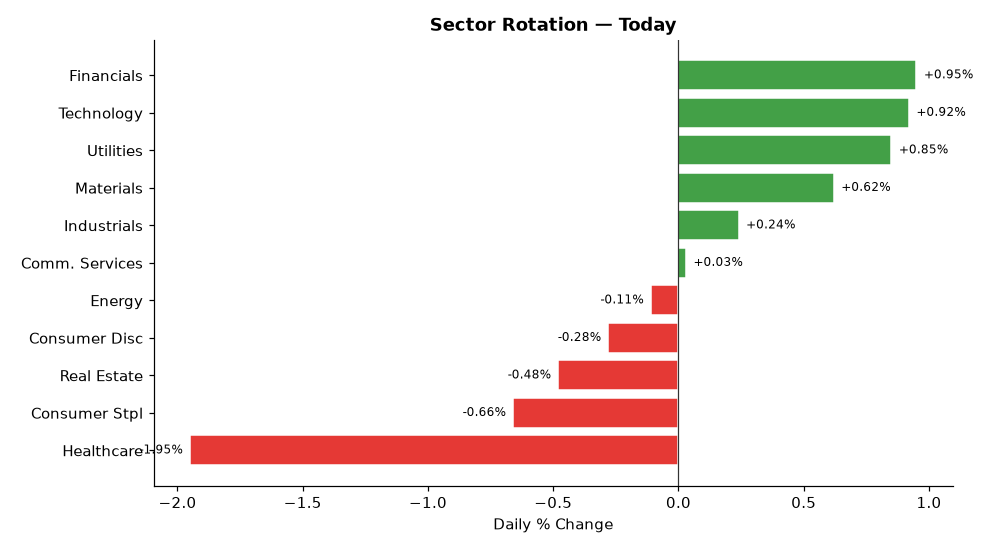
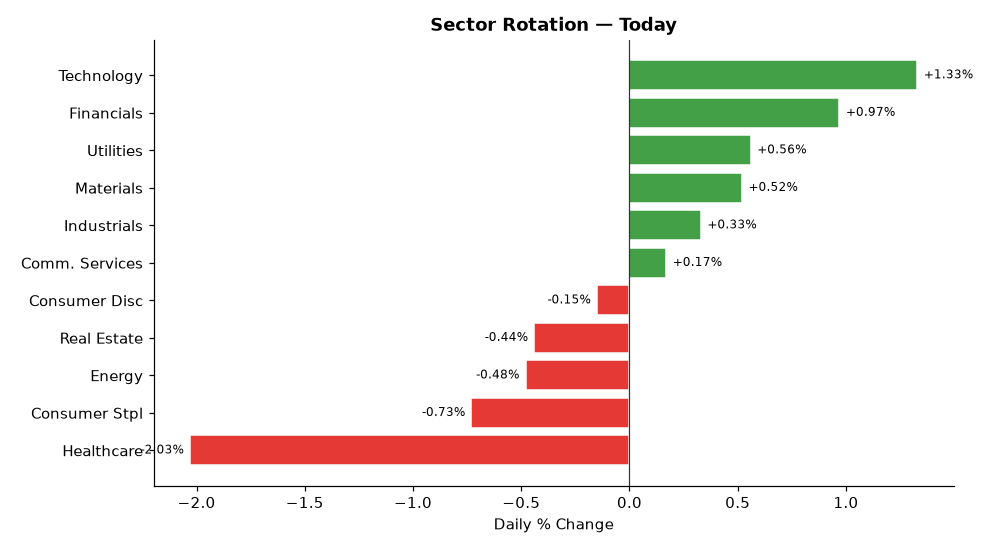
deploy: b7fadf5b06deb90e7ebb92f278722414bdd9750d

diff --git a/index.html b/index.html
@@ -4,7 +4,7 @@
   <meta charset="UTF-8">
   <meta name="viewport" content="width=device-width,initial-scale=1">
   <meta http-equiv="Cache-Control" content="no-cache,no-store,must-revalidate">
-  <title>Stock Breakout Screener — 2026-07-14 14:45</title>
+  <title>Stock Breakout Screener — 2026-07-14 15:07</title>
   <style>
     *{box-sizing:border-box;margin:0;padding:0}
     body{font-family:'Segoe UI',Arial,sans-serif;background:#f0f2f5;
@@ -34,7 +34,7 @@
 
 <div class="hdr">
   <h1>📈 Stock Breakout Screener</h1>
-  <p>Updated: 2026-07-14 14:45 UTC &nbsp;·&nbsp; Phase: Regular Market Hours &nbsp;·&nbsp;
+  <p>Updated: 2026-07-14 15:07 UTC &nbsp;·&nbsp; Phase: Regular Market Hours &nbsp;·&nbsp;
      129 stocks screened &nbsp;·&nbsp; Top 5 by conviction score</p>
 </div>
 
@@ -60,16 +60,16 @@
           <div style="display:flex;align-items:center;gap:10px;
                       flex-wrap:wrap;margin-bottom:10px">
             <span style="font-size:22px">🟢</span>
-            <span style="font-size:19px;font-weight:700">1. JPM</span>
-            <span style="font-size:12px;color:#666">Financials</span>
+            <span style="font-size:19px;font-weight:700">1. AAPL</span>
+            <span style="font-size:12px;color:#666">Technology</span>
             <span style="margin-left:auto;background:#1a237e;color:#fff;
                          padding:3px 12px;border-radius:12px;
                          font-size:13px;font-weight:600">
-              12/17
+              13/17
             </span>
           </div>
           <ul style="margin:0;padding-left:18px;font-size:13px;
-                     color:#333;line-height:1.8"><li style="margin:5px 0"><span style="background:#ffebee;color:#b71c1c;padding:2px 7px;border-radius:4px;font-size:11px;">❌</span> Volume: <b>0.5× average</b> — Above-average activity</li><li style="margin:5px 0"><span style="background:#e8f5e9;color:#2e7d32;padding:2px 7px;border-radius:4px;font-size:11px;">✅</span> Candle: close <b>$343.07</b> vs open <b>$327.00</b> (+4.9%) — regular market close</li><li style="margin:5px 0"><span style="background:#e8f5e9;color:#2e7d32;padding:2px 7px;border-radius:4px;font-size:11px;">✅</span> 200-Day MA: price <b>$343.07</b> vs MA <b>$305.91</b> — <b>✅ Above</b> long-term trend</li><li style="margin:5px 0"><span style="background:#e8f5e9;color:#2e7d32;padding:2px 7px;border-radius:4px;font-size:11px;">✅</span> Inst. ownership: <b>75.6%</b> · MFI: <b>58.9</b> · Market cap: <b>$919.6B</b></li></ul>
+                     color:#333;line-height:1.8"><li style="margin:5px 0"><span style="background:#ffebee;color:#b71c1c;padding:2px 7px;border-radius:4px;font-size:11px;">❌</span> Volume: <b>0.2× average</b> — Above-average activity</li><li style="margin:5px 0"><span style="background:#ffebee;color:#b71c1c;padding:2px 7px;border-radius:4px;font-size:11px;">❌</span> Candle: close <b>$315.60</b> vs open <b>$313.64</b> (+0.6%) — regular market close</li><li style="margin:5px 0"><span style="background:#e8f5e9;color:#2e7d32;padding:2px 7px;border-radius:4px;font-size:11px;">✅</span> 200-Day MA: price <b>$315.60</b> vs MA <b>$276.53</b> — <b>✅ Above</b> long-term trend</li><li style="margin:5px 0"><span style="background:#e8f5e9;color:#2e7d32;padding:2px 7px;border-radius:4px;font-size:11px;">✅</span> Inst. ownership: <b>65.7%</b> · MFI: <b>78.0</b> · Market cap: <b>$4635.0B</b></li><li style="margin:5px 0"><span style="background:#e8f5e9;color:#2e7d32;padding:2px 7px;border-radius:4px;font-size:11px;">✅</span> Last similar breakout: <b>Jun 26, 2026</b> → <b>+11.8%</b> over 10 trading days</li></ul>
         </div>
         <div style="background:#fff;border:1px solid #ddd;border-radius:10px;
                     padding:16px 20px;margin-bottom:12px;
@@ -77,7 +77,7 @@
           <div style="display:flex;align-items:center;gap:10px;
                       flex-wrap:wrap;margin-bottom:10px">
             <span style="font-size:22px">🟡</span>
-            <span style="font-size:19px;font-weight:700">2. AAPL</span>
+            <span style="font-size:19px;font-weight:700">2. CRM</span>
             <span style="font-size:12px;color:#666">Technology</span>
             <span style="margin-left:auto;background:#1a237e;color:#fff;
                          padding:3px 12px;border-radius:12px;
@@ -86,7 +86,7 @@
             </span>
           </div>
           <ul style="margin:0;padding-left:18px;font-size:13px;
-                     color:#333;line-height:1.8"><li style="margin:5px 0"><span style="background:#ffebee;color:#b71c1c;padding:2px 7px;border-radius:4px;font-size:11px;">❌</span> Volume: <b>0.9× average</b> — Above-average activity</li><li style="margin:5px 0"><span style="background:#ffebee;color:#b71c1c;padding:2px 7px;border-radius:4px;font-size:11px;">❌</span> Candle: close <b>$317.31</b> vs open <b>$317.02</b> (+0.1%) — regular market close</li><li style="margin:5px 0"><span style="background:#e8f5e9;color:#2e7d32;padding:2px 7px;border-radius:4px;font-size:11px;">✅</span> 200-Day MA: price <b>$317.31</b> vs MA <b>$276.53</b> — <b>✅ Above</b> long-term trend</li><li style="margin:5px 0"><span style="background:#e8f5e9;color:#2e7d32;padding:2px 7px;border-radius:4px;font-size:11px;">✅</span> Inst. ownership: <b>65.7%</b> · MFI: <b>78.1</b> · Market cap: <b>$4630.4B</b></li><li style="margin:5px 0"><span style="background:#e8f5e9;color:#2e7d32;padding:2px 7px;border-radius:4px;font-size:11px;">✅</span> Last similar breakout: <b>Jun 26, 2026</b> → <b>+11.8%</b> over 10 trading days</li></ul>
+                     color:#333;line-height:1.8"><li style="margin:5px 0"><span style="background:#ffebee;color:#b71c1c;padding:2px 7px;border-radius:4px;font-size:11px;">❌</span> Volume: <b>0.3× average</b> — Above-average activity</li><li style="margin:5px 0"><span style="background:#e8f5e9;color:#2e7d32;padding:2px 7px;border-radius:4px;font-size:11px;">✅</span> Candle: close <b>$168.80</b> vs open <b>$162.49</b> (+3.9%) — regular market close</li><li style="margin:5px 0"><span style="background:#ffebee;color:#b71c1c;padding:2px 7px;border-radius:4px;font-size:11px;">❌</span> 200-Day MA: price <b>$168.80</b> vs MA <b>$184.67</b> — <b>❌ Below</b> long-term trend</li><li style="margin:5px 0"><span style="background:#e8f5e9;color:#2e7d32;padding:2px 7px;border-radius:4px;font-size:11px;">✅</span> Inst. ownership: <b>94.2%</b> · MFI: <b>69.3</b> · Market cap: <b>$138.3B</b></li><li style="margin:5px 0"><span style="background:#ffebee;color:#b71c1c;padding:2px 7px;border-radius:4px;font-size:11px;">❌</span> Last similar breakout: <b>May 29, 2026</b> → <b>-13.0%</b> over 10 trading days</li></ul>
         </div>
         <div style="background:#fff;border:1px solid #ddd;border-radius:10px;
                     padding:16px 20px;margin-bottom:12px;
@@ -94,8 +94,8 @@
           <div style="display:flex;align-items:center;gap:10px;
                       flex-wrap:wrap;margin-bottom:10px">
             <span style="font-size:22px">🟡</span>
-            <span style="font-size:19px;font-weight:700">3. V</span>
-            <span style="font-size:12px;color:#666">Financials</span>
+            <span style="font-size:19px;font-weight:700">3. AMD</span>
+            <span style="font-size:12px;color:#666">Technology</span>
             <span style="margin-left:auto;background:#1a237e;color:#fff;
                          padding:3px 12px;border-radius:12px;
                          font-size:13px;font-weight:600">
@@ -103,7 +103,7 @@
             </span>
           </div>
           <ul style="margin:0;padding-left:18px;font-size:13px;
-                     color:#333;line-height:1.8"><li style="margin:5px 0"><span style="background:#ffebee;color:#b71c1c;padding:2px 7px;border-radius:4px;font-size:11px;">❌</span> Volume: <b>1.2× average</b> — Above-average activity</li><li style="margin:5px 0"><span style="background:#ffebee;color:#b71c1c;padding:2px 7px;border-radius:4px;font-size:11px;">❌</span> Candle: close <b>$357.75</b> vs open <b>$351.73</b> (+1.7%) — regular market close</li><li style="margin:5px 0"><span style="background:#e8f5e9;color:#2e7d32;padding:2px 7px;border-radius:4px;font-size:11px;">✅</span> 200-Day MA: price <b>$357.75</b> vs MA <b>$321.38</b> — <b>✅ Above</b> long-term trend</li><li style="margin:5px 0"><span style="background:#e8f5e9;color:#2e7d32;padding:2px 7px;border-radius:4px;font-size:11px;">✅</span> Inst. ownership: <b>91.6%</b> · MFI: <b>71.1</b> · Market cap: <b>$682.7B</b></li></ul>
+                     color:#333;line-height:1.8"><li style="margin:5px 0"><span style="background:#ffebee;color:#b71c1c;padding:2px 7px;border-radius:4px;font-size:11px;">❌</span> Volume: <b>0.2× average</b> — Above-average activity</li><li style="margin:5px 0"><span style="background:#ffebee;color:#b71c1c;padding:2px 7px;border-radius:4px;font-size:11px;">❌</span> Candle: close <b>$562.39</b> vs open <b>$567.74</b> (-0.9%) — regular market close</li><li style="margin:5px 0"><span style="background:#e8f5e9;color:#2e7d32;padding:2px 7px;border-radius:4px;font-size:11px;">✅</span> 200-Day MA: price <b>$562.39</b> vs MA <b>$335.36</b> — <b>✅ Above</b> long-term trend</li><li style="margin:5px 0"><span style="background:#e8f5e9;color:#2e7d32;padding:2px 7px;border-radius:4px;font-size:11px;">✅</span> Inst. ownership: <b>72.0%</b> · MFI: <b>46.5</b> · Market cap: <b>$917.4B</b></li><li style="margin:5px 0"><span style="background:#e8f5e9;color:#2e7d32;padding:2px 7px;border-radius:4px;font-size:11px;">✅</span> Last similar breakout: <b>Apr 24, 2026</b> → <b>+30.9%</b> over 10 trading days</li></ul>
         </div>
         <div style="background:#fff;border:1px solid #ddd;border-radius:10px;
                     padding:16px 20px;margin-bottom:12px;
@@ -111,8 +111,8 @@
           <div style="display:flex;align-items:center;gap:10px;
                       flex-wrap:wrap;margin-bottom:10px">
             <span style="font-size:22px">🟡</span>
-            <span style="font-size:19px;font-weight:700">4. MA</span>
-            <span style="font-size:12px;color:#666">Financials</span>
+            <span style="font-size:19px;font-weight:700">4. QCOM</span>
+            <span style="font-size:12px;color:#666">Technology</span>
             <span style="margin-left:auto;background:#1a237e;color:#fff;
                          padding:3px 12px;border-radius:12px;
                          font-size:13px;font-weight:600">
@@ -120,7 +120,7 @@
             </span>
           </div>
           <ul style="margin:0;padding-left:18px;font-size:13px;
-                     color:#333;line-height:1.8"><li style="margin:5px 0"><span style="background:#ffebee;color:#b71c1c;padding:2px 7px;border-radius:4px;font-size:11px;">❌</span> Volume: <b>0.2× average</b> — Above-average activity</li><li style="margin:5px 0"><span style="background:#ffebee;color:#b71c1c;padding:2px 7px;border-radius:4px;font-size:11px;">❌</span> Candle: close <b>$542.41</b> vs open <b>$534.99</b> (+1.4%) — regular market close</li><li style="margin:5px 0"><span style="background:#e8f5e9;color:#2e7d32;padding:2px 7px;border-radius:4px;font-size:11px;">✅</span> 200-Day MA: price <b>$542.41</b> vs MA <b>$508.91</b> — <b>✅ Above</b> long-term trend</li><li style="margin:5px 0"><span style="background:#e8f5e9;color:#2e7d32;padding:2px 7px;border-radius:4px;font-size:11px;">✅</span> Inst. ownership: <b>91.5%</b> · MFI: <b>82.2</b> · Market cap: <b>$479.3B</b></li></ul>
+                     color:#333;line-height:1.8"><li style="margin:5px 0"><span style="background:#ffebee;color:#b71c1c;padding:2px 7px;border-radius:4px;font-size:11px;">❌</span> Volume: <b>0.8× average</b> — Above-average activity</li><li style="margin:5px 0"><span style="background:#ffebee;color:#b71c1c;padding:2px 7px;border-radius:4px;font-size:11px;">❌</span> Candle: close <b>$183.98</b> vs open <b>$185.06</b> (-0.6%) — regular market close</li><li style="margin:5px 0"><span style="background:#e8f5e9;color:#2e7d32;padding:2px 7px;border-radius:4px;font-size:11px;">✅</span> 200-Day MA: price <b>$183.98</b> vs MA <b>$166.65</b> — <b>✅ Above</b> long-term trend</li><li style="margin:5px 0"><span style="background:#e8f5e9;color:#2e7d32;padding:2px 7px;border-radius:4px;font-size:11px;">✅</span> Inst. ownership: <b>84.6%</b> · MFI: <b>29.0</b> · Market cap: <b>$192.7B</b></li><li style="margin:5px 0"><span style="background:#e8f5e9;color:#2e7d32;padding:2px 7px;border-radius:4px;font-size:11px;">✅</span> Last similar breakout: <b>May 07, 2026</b> → <b>+5.4%</b> over 10 trading days</li></ul>
         </div>
         <div style="background:#fff;border:1px solid #ddd;border-radius:10px;
                     padding:16px 20px;margin-bottom:12px;
@@ -128,16 +128,16 @@
           <div style="display:flex;align-items:center;gap:10px;
                       flex-wrap:wrap;margin-bottom:10px">
             <span style="font-size:22px">🟡</span>
-            <span style="font-size:19px;font-weight:700">5. GS</span>
+            <span style="font-size:19px;font-weight:700">5. JPM</span>
             <span style="font-size:12px;color:#666">Financials</span>
             <span style="margin-left:auto;background:#1a237e;color:#fff;
                          padding:3px 12px;border-radius:12px;
                          font-size:13px;font-weight:600">
-              11/17
+              10/17
             </span>
           </div>
           <ul style="margin:0;padding-left:18px;font-size:13px;
-                     color:#333;line-height:1.8"><li style="margin:5px 0"><span style="background:#ffebee;color:#b71c1c;padding:2px 7px;border-radius:4px;font-size:11px;">❌</span> Volume: <b>0.6× average</b> — Above-average activity</li><li style="margin:5px 0"><span style="background:#e8f5e9;color:#2e7d32;padding:2px 7px;border-radius:4px;font-size:11px;">✅</span> Candle: close <b>$1130.16</b> vs open <b>$1085.00</b> (+4.2%) — regular market close</li><li style="margin:5px 0"><span style="background:#e8f5e9;color:#2e7d32;padding:2px 7px;border-radius:4px;font-size:11px;">✅</span> 200-Day MA: price <b>$1130.16</b> vs MA <b>$937.72</b> — <b>✅ Above</b> long-term trend</li><li style="margin:5px 0"><span style="background:#e8f5e9;color:#2e7d32;padding:2px 7px;border-radius:4px;font-size:11px;">✅</span> Inst. ownership: <b>74.6%</b> · MFI: <b>33.3</b> · Market cap: <b>$333.5B</b></li></ul>
+                     color:#333;line-height:1.8"><li style="margin:5px 0"><span style="background:#ffebee;color:#b71c1c;padding:2px 7px;border-radius:4px;font-size:11px;">❌</span> Volume: <b>0.5× average</b> — Above-average activity</li><li style="margin:5px 0"><span style="background:#e8f5e9;color:#2e7d32;padding:2px 7px;border-radius:4px;font-size:11px;">✅</span> Candle: close <b>$343.95</b> vs open <b>$327.00</b> (+5.2%) — regular market close</li><li style="margin:5px 0"><span style="background:#e8f5e9;color:#2e7d32;padding:2px 7px;border-radius:4px;font-size:11px;">✅</span> 200-Day MA: price <b>$343.95</b> vs MA <b>$305.91</b> — <b>✅ Above</b> long-term trend</li><li style="margin:5px 0"><span style="background:#e8f5e9;color:#2e7d32;padding:2px 7px;border-radius:4px;font-size:11px;">✅</span> Inst. ownership: <b>75.6%</b> · MFI: <b>59.1</b> · Market cap: <b>$921.7B</b></li></ul>
         </div>
 
 
@@ -168,93 +168,93 @@
   
         <tr>
           <td style="font-weight:700;text-align:left;padding-left:10px">
-            🟢 JPM</td>
-          <td style="background:#ffcdd2">0.5×</td>
-          <td style="background:#c8e6c9">+4.9%</td>
-          <td style="background:#c8e6c9">
-            ▲ Above</td>
-          <td style="background:#c8e6c9">
-            75.6%</td>
-          <td style="background:#fff9c4">
-            58.9</td>
-          <td style="background:#c8e6c9">Financials</td>
-          <td style="background:#c8e6c9">
-            108.7%</td>
-          <td style="background:#ffcdd2">
-            N/A</td>
-          <td style="font-weight:800;font-size:15px">12/17</td>
-        </tr>
-        <tr>
-          <td style="font-weight:700;text-align:left;padding-left:10px">
-            🟡 AAPL</td>
-          <td style="background:#ffcdd2">0.9×</td>
-          <td style="background:#ffcdd2">+0.1%</td>
+            🟢 AAPL</td>
+          <td style="background:#ffcdd2">0.2×</td>
+          <td style="background:#ffcdd2">+0.6%</td>
           <td style="background:#c8e6c9">
             ▲ Above</td>
           <td style="background:#c8e6c9">
             65.7%</td>
           <td style="background:#c8e6c9">
-            78.1</td>
-          <td style="background:#fff9c4">Technology</td>
+            78.0</td>
+          <td style="background:#c8e6c9">Technology</td>
           <td style="background:#c8e6c9">
-            67.0%</td>
+            98.2%</td>
           <td style="background:#c8e6c9">
             +11.8%</td>
-          <td style="font-weight:800;font-size:15px">11/17</td>
+          <td style="font-weight:800;font-size:15px">13/17</td>
         </tr>
         <tr>
           <td style="font-weight:700;text-align:left;padding-left:10px">
-            🟡 V</td>
-          <td style="background:#ffcdd2">1.2×</td>
-          <td style="background:#ffcdd2">+1.7%</td>
-          <td style="background:#c8e6c9">
-            ▲ Above</td>
-          <td style="background:#c8e6c9">
-            91.6%</td>
-          <td style="background:#c8e6c9">
-            71.1</td>
-          <td style="background:#c8e6c9">Financials</td>
-          <td style="background:#c8e6c9">
-            65.4%</td>
+            🟡 CRM</td>
+          <td style="background:#ffcdd2">0.3×</td>
+          <td style="background:#c8e6c9">+3.9%</td>
           <td style="background:#ffcdd2">
-            N/A</td>
+            ▼ Below</td>
+          <td style="background:#c8e6c9">
+            94.2%</td>
+          <td style="background:#c8e6c9">
+            69.3</td>
+          <td style="background:#c8e6c9">Technology</td>
+          <td style="background:#c8e6c9">
+            67.7%</td>
+          <td style="background:#ffcdd2">
+            -13.0%</td>
           <td style="font-weight:800;font-size:15px">11/17</td>
         </tr>
         <tr>
           <td style="font-weight:700;text-align:left;padding-left:10px">
-            🟡 MA</td>
+            🟡 AMD</td>
           <td style="background:#ffcdd2">0.2×</td>
-          <td style="background:#ffcdd2">+1.4%</td>
+          <td style="background:#ffcdd2">-0.9%</td>
           <td style="background:#c8e6c9">
             ▲ Above</td>
           <td style="background:#c8e6c9">
-            91.5%</td>
-          <td style="background:#c8e6c9">
-            82.2</td>
-          <td style="background:#c8e6c9">Financials</td>
-          <td style="background:#c8e6c9">
-            79.1%</td>
+            72.0%</td>
           <td style="background:#ffcdd2">
-            N/A</td>
+            46.5</td>
+          <td style="background:#c8e6c9">Technology</td>
+          <td style="background:#c8e6c9">
+            43.8%</td>
+          <td style="background:#c8e6c9">
+            +30.9%</td>
           <td style="font-weight:800;font-size:15px">11/17</td>
         </tr>
         <tr>
           <td style="font-weight:700;text-align:left;padding-left:10px">
-            🟡 GS</td>
-          <td style="background:#ffcdd2">0.6×</td>
-          <td style="background:#c8e6c9">+4.2%</td>
+            🟡 QCOM</td>
+          <td style="background:#ffcdd2">0.8×</td>
+          <td style="background:#ffcdd2">-0.6%</td>
           <td style="background:#c8e6c9">
             ▲ Above</td>
           <td style="background:#c8e6c9">
-            74.6%</td>
+            84.6%</td>
           <td style="background:#ffcdd2">
-            33.3</td>
-          <td style="background:#c8e6c9">Financials</td>
+            29.0</td>
+          <td style="background:#c8e6c9">Technology</td>
           <td style="background:#c8e6c9">
-            74.7%</td>
+            105.9%</td>
+          <td style="background:#c8e6c9">
+            +5.4%</td>
+          <td style="font-weight:800;font-size:15px">11/17</td>
+        </tr>
+        <tr>
+          <td style="font-weight:700;text-align:left;padding-left:10px">
+            🟡 JPM</td>
+          <td style="background:#ffcdd2">0.5×</td>
+          <td style="background:#c8e6c9">+5.2%</td>
+          <td style="background:#c8e6c9">
+            ▲ Above</td>
+          <td style="background:#c8e6c9">
+            75.6%</td>
+          <td style="background:#fff9c4">
+            59.1</td>
+          <td style="background:#fff9c4">Financials</td>
+          <td style="background:#c8e6c9">
+            116.6%</td>
           <td style="background:#ffcdd2">
             N/A</td>
-          <td style="font-weight:800;font-size:15px">11/17</td>
+          <td style="font-weight:800;font-size:15px">10/17</td>
         </tr>
 </table>
 </div>
@@ -277,58 +277,58 @@
       
         <tr>
           <td style="text-align:left;padding-left:10px;font-weight:600">
-            #1 Financials</td>
-          <td style="background:#e8f5e9;color:#2e7d32;font-weight:700">+0.95%</td>
+            #1 Technology</td>
+          <td style="background:#e8f5e9;color:#2e7d32;font-weight:700">+1.33%</td>
         </tr>
         <tr>
           <td style="text-align:left;padding-left:10px;font-weight:600">
-            #2 Technology</td>
-          <td style="background:#e8f5e9;color:#2e7d32;font-weight:700">+0.92%</td>
+            #2 Financials</td>
+          <td style="background:#e8f5e9;color:#2e7d32;font-weight:700">+0.97%</td>
         </tr>
         <tr>
           <td style="text-align:left;padding-left:10px;font-weight:600">
             #3 Utilities</td>
-          <td style="background:#e8f5e9;color:#2e7d32;font-weight:700">+0.85%</td>
+          <td style="background:#e8f5e9;color:#2e7d32;font-weight:700">+0.56%</td>
         </tr>
         <tr>
           <td style="text-align:left;padding-left:10px;font-weight:600">
             #4 Materials</td>
-          <td style="background:#e8f5e9;color:#2e7d32;font-weight:700">+0.62%</td>
+          <td style="background:#e8f5e9;color:#2e7d32;font-weight:700">+0.52%</td>
         </tr>
         <tr>
           <td style="text-align:left;padding-left:10px;font-weight:600">
             #5 Industrials</td>
-          <td style="background:#e8f5e9;color:#2e7d32;font-weight:700">+0.24%</td>
+          <td style="background:#e8f5e9;color:#2e7d32;font-weight:700">+0.33%</td>
         </tr>
         <tr>
           <td style="text-align:left;padding-left:10px;font-weight:600">
             #6 Comm. Services</td>
-          <td style="background:#e8f5e9;color:#2e7d32;font-weight:700">+0.03%</td>
+          <td style="background:#e8f5e9;color:#2e7d32;font-weight:700">+0.17%</td>
         </tr>
         <tr>
           <td style="text-align:left;padding-left:10px;font-weight:600">
-            #7 Energy</td>
-          <td style="background:#ffebee;color:#c62828;font-weight:700">-0.11%</td>
+            #7 Consumer Disc</td>
+          <td style="background:#ffebee;color:#c62828;font-weight:700">-0.15%</td>
         </tr>
         <tr>
           <td style="text-align:left;padding-left:10px;font-weight:600">
-            #8 Consumer Disc</td>
-          <td style="background:#ffebee;color:#c62828;font-weight:700">-0.28%</td>
+            #8 Real Estate</td>
+          <td style="background:#ffebee;color:#c62828;font-weight:700">-0.44%</td>
         </tr>
         <tr>
           <td style="text-align:left;padding-left:10px;font-weight:600">
-            #9 Real Estate</td>
+            #9 Energy</td>
           <td style="background:#ffebee;color:#c62828;font-weight:700">-0.48%</td>
         </tr>
         <tr>
           <td style="text-align:left;padding-left:10px;font-weight:600">
             #10 Consumer Stpl</td>
-          <td style="background:#ffebee;color:#c62828;font-weight:700">-0.66%</td>
+          <td style="background:#ffebee;color:#c62828;font-weight:700">-0.73%</td>
         </tr>
         <tr>
           <td style="text-align:left;padding-left:10px;font-weight:600">
             #11 Healthcare</td>
-          <td style="background:#ffebee;color:#c62828;font-weight:700">-1.95%</td>
+          <td style="background:#ffebee;color:#c62828;font-weight:700">-2.03%</td>
         </tr>
     </table>
   </div>
@@ -367,7 +367,7 @@
         <li><b>Scoring weights:</b>
             Inst.Own(3) · Sector(3) · Volume(2) · Breakout(2) ·
             MA200(2) · MFI(2) · History(2) · IV(1) = 17pts max</li>
-        <li><b>Run time:</b> 2026-07-14 14:45 UTC — Market phase: Regular Market Hours</li>
+        <li><b>Run time:</b> 2026-07-14 15:07 UTC — Market phase: Regular Market Hours</li>
       </ul>
     </div>
 
